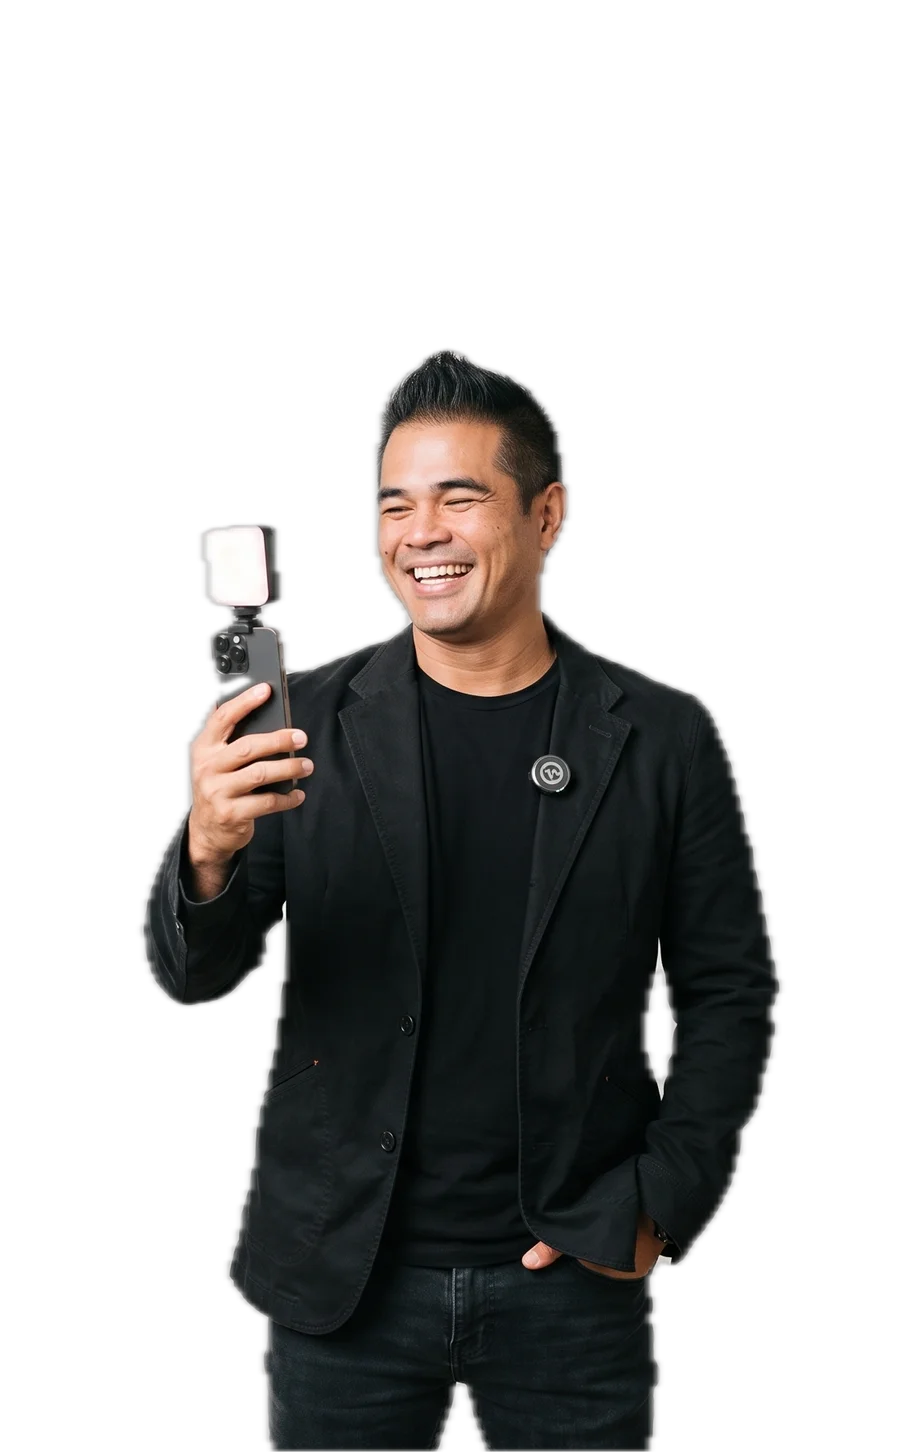
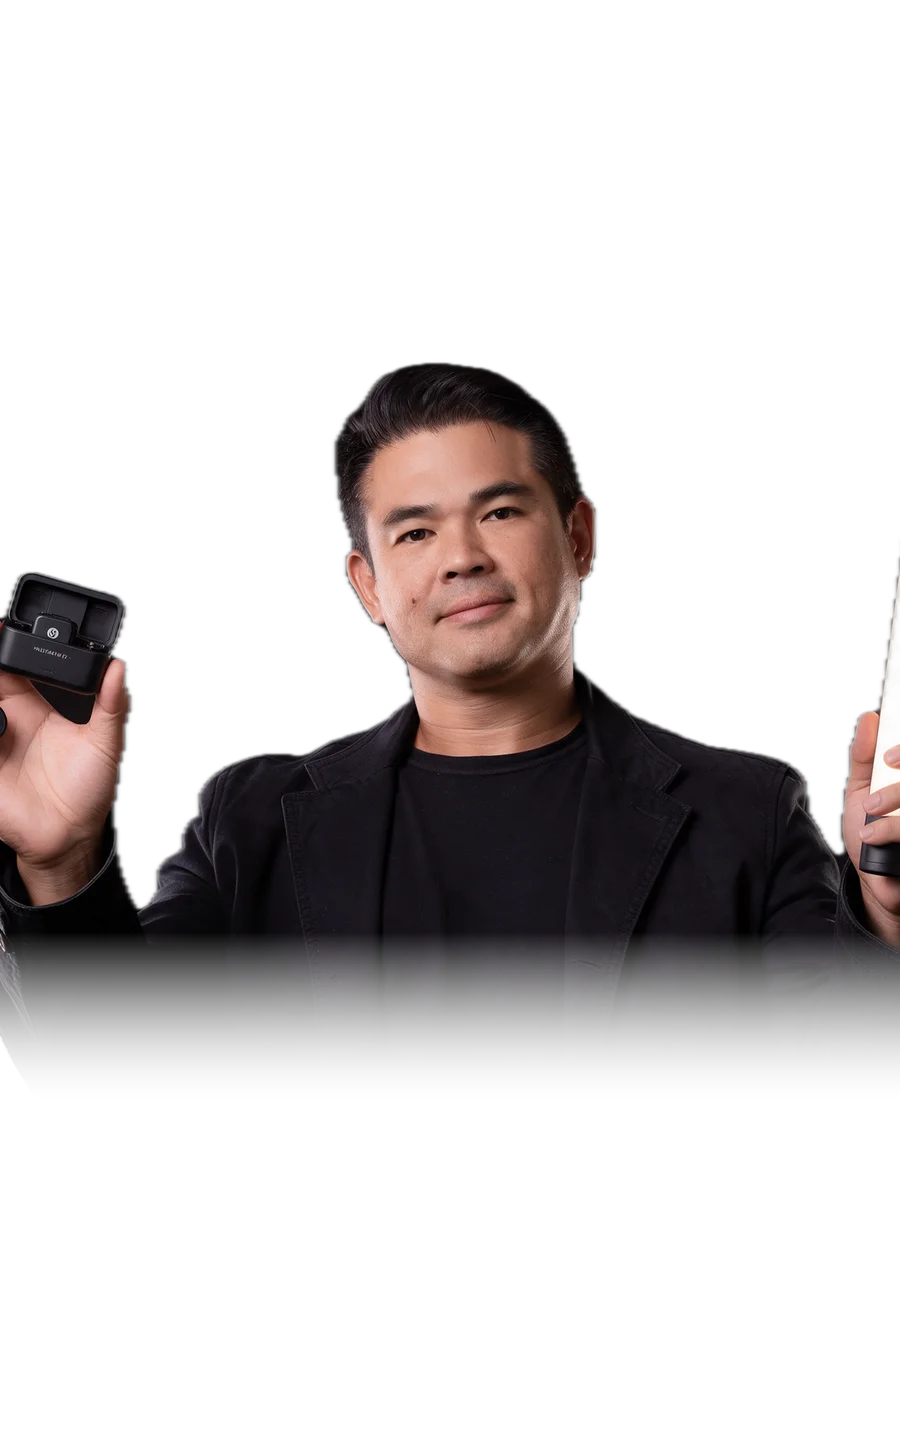
Equipamentos: hero escura com a foto do Magnific, bloco final 'Saber usar' no estilo da hero, rodapé escuro, barra fixa no celular, espaço do 'Ver no Mercado Livre'

diff --git a/equipamentos/index.html b/equipamentos/index.html
@@ -92,7 +92,7 @@
     }
     .topo.solido { background: var(--surface-0); border-bottom-color: rgba(255,255,255,0.06); }
     /* em cima da hero clara, o logo fica escuro */
-    .topo:not(.solido) .marca, .topo:not(.solido) .marca svg { color: #0A0A0A; }
+    .topo:not(.solido) .marca, .topo:not(.solido) .marca svg { color: var(--cream); }
     .topo .wrap { height: 56px; display: flex; align-items: center; justify-content: space-between; gap: 16px; }
     .marca {
       display: flex; align-items: center; gap: 8px;
@@ -118,12 +118,12 @@
       margin-top: -56px; min-height: 100svh;
       display: flex; flex-direction: column; justify-content: space-between;
       padding: 72px 0 28px;
-      background: #DEDAD5 url("/assets/equipamentos/hero-claro-mobile.webp") center bottom 105px / cover no-repeat;
+      background: #0A0A0A url("/assets/equipamentos/hero-claro-mobile.webp") center bottom 105px / cover no-repeat;
     }
     .abre::after {
       content: ""; position: absolute; inset: 0; pointer-events: none;
       background:
-        linear-gradient(to top, rgba(226,223,218,0.96) 0%, rgba(226,223,218,0.85) 24%, rgba(226,223,218,0) 46%);
+        linear-gradient(to top, rgba(10,10,10,0.96) 0%, rgba(10,10,10,0.85) 24%, rgba(10,10,10,0) 46%);
     }
     .abre > * { position: relative; z-index: 3; }
     /* Efeito "palavra atrás dele": o recorte do Márcio (Vision do macOS, 30/09)
@@ -139,15 +139,15 @@
       font-family: 'Archivo Expandida', 'Inter', sans-serif; font-weight: 900;
       /* a palavra mede 10,66x o tamanho da fonte: ocupa a largura útil exata */
       font-size: calc((100vw - 40px) / 10.8); line-height: 0.9; letter-spacing: -0.01em;
-      text-transform: uppercase; text-align: center; color: #0A0A0A;
+      text-transform: uppercase; text-align: center; color: var(--cream);
       white-space: nowrap;
     }
     .hero-menu {
       display: none; justify-content: flex-end; gap: 22px;
       max-width: 1440px; margin: 14px auto 0; padding: 0 20px; width: 100%;
     }
-    .hero-menu a { color: #0A0A0A; text-decoration: none; font-size: 18px; letter-spacing: -0.01em; }
-    .hero-menu a:hover { color: #000; text-decoration: underline; text-underline-offset: 4px; }
+    .hero-menu a { color: #E9E4DA; text-decoration: none; font-size: 18px; letter-spacing: -0.01em; }
+    .hero-menu a:hover { color: #fff; text-decoration: underline; text-underline-offset: 4px; }
     .hero-base {
       display: flex; flex-direction: column; gap: 22px;
       max-width: 1440px; margin: 0 auto; padding: 0 20px; width: 100%;
@@ -162,18 +162,18 @@
        quebram dentro dela (contain: inline-size) e com linhas equilibradas */
     .hero-texto { width: fit-content; }
     .hero-texto > p:not(.lista-titulo) { contain: inline-size; text-wrap: balance; }
-    .hero-apoio { margin: 0; max-width: none; font-size: 17px; line-height: 1.45; color: #0A0A0A; }
-    .hero-afiliado { margin: 10px 0 0; max-width: none; font-size: 12.5px; line-height: 1.45; color: #5A534A; }
+    .hero-apoio { margin: 0; max-width: none; font-size: 17px; line-height: 1.45; color: #E2DCD0; }
+    .hero-afiliado { margin: 10px 0 0; max-width: none; font-size: 12.5px; line-height: 1.45; color: #A9A296; }
     .btn-vazado {
       display: inline-flex; align-items: center; justify-content: center; gap: 14px;
-      padding: 18px 30px; border: 1.5px solid #0A0A0A;
-      color: #0A0A0A; text-decoration: none; font-size: 18px; font-weight: 400; letter-spacing: -0.01em;
+      padding: 18px 30px; border: 1.5px solid var(--cream);
+      color: var(--cream); text-decoration: none; font-size: 18px; font-weight: 400; letter-spacing: -0.01em;
       transition: background .2s, color .2s;
     }
     .btn-vazado svg { width: 24px; height: 24px; }
     /* indicador de rolagem no centro, embaixo (o "tracinho" da referência) */
     .rolar { display: none; }
-    .btn-vazado:hover { background: #0A0A0A; color: var(--cream); }
+    .btn-vazado:hover { background: var(--cream); color: #0A0A0A; }
 
     /* Abas por categoria: grudam embaixo do cabeçalho */
     .abas {
@@ -220,15 +220,6 @@
     .info p { margin: 0; font-size: 15px; color: #CFC8BB; flex: 1; }
     .info .btn-ember { align-self: flex-start; margin-top: 8px; padding: 11px 18px; font-size: 13px; }
 
-    /* Fecho */
-    .fecho { padding: 56px 0 64px; }
-    .fecho .caixa {
-      background: var(--cream); color: var(--cream-ink);
-      border-radius: var(--r-md); padding: 32px 24px;
-    }
-    .fecho h2 { margin: 0 0 10px; font-size: clamp(22px, 4vw, 30px); font-weight: 800; letter-spacing: -0.02em; }
-    .fecho p { margin: 0 0 20px; font-size: 16px; max-width: 58ch; color: #3A3129; }
-
     footer { padding: 36px 0; border-top: 1px solid rgba(255,255,255,0.05); }
     footer .wrap {
       display: flex; flex-direction: column; align-items: center; gap: 8px; text-align: center;
@@ -248,7 +239,7 @@
         background-image: url("/assets/equipamentos/hero-claro.webp");
         /* largura 115% e topo puxado proporcional à tela: a palavra também
            escala pela largura, então a cabeça sempre encosta nela */
-        background-size: 115% auto; background-position: center calc(23px - 23vw);
+        background-size: min(115%, 1840px) auto; background-position: center calc(23px - min(23vw, 368px));
       }
       /* na hero a palavra É a marca: a barra do topo só aparece depois de rolar */
       .topo:not(.solido) { opacity: 0; transform: translateY(-100%); pointer-events: none; }
@@ -258,20 +249,21 @@
       }
       .rolar {
         display: block; position: absolute; left: 50%; bottom: 14px; z-index: 3;
-        width: 46px; height: 6px; margin-left: -23px; border-radius: 3px; background: rgba(10,10,10,0.7);
+        width: 46px; height: 6px; margin-left: -23px; border-radius: 3px; background: rgba(240,230,210,0.6);
       }
-      .gigante { padding: 0 40px; font-size: min(calc((100vw - 80px) / 10.8), 190px); }
-      .hero-menu, .hero-base { padding: 0 40px; }
+      .gigante { padding: 0 40px; font-size: min(calc((100vw - 80px) / 10.8), 141px); }
+      /* acima de 1600 px a hero para de crescer (fundo preto liso dos lados) */
+      .hero-menu, .hero-base { padding: 0 40px; max-width: 1600px; }
       .hero-base { flex-direction: row; align-items: flex-end; justify-content: space-between; }
       .btn-vazado { flex-shrink: 0; }
-      .hero-menu { display: flex; }
-      .abre > .recorte { background-image: url("/assets/equipamentos/hero-claro-recorte.webp"); background-size: 115% auto; background-position: center calc(23px - 23vw); }
+      /* menu à esquerda, embaixo da palavra: o lado direito tem o bastão de luz */
+      .hero-menu { display: flex; justify-content: flex-start; }
+      .abre > .recorte { background-image: url("/assets/equipamentos/hero-claro-recorte.webp"); background-size: min(115%, 1840px) auto; background-position: center calc(23px - min(23vw, 368px)); }
       /* no desktop o texto fica ao lado dele: sem degradê, corpo inteiro visível */
       .abre::after { background: none; }
       /* ele ocupa o meio da tela: o texto fica numa coluna estreita à esquerda */
       .lista-titulo { font-size: min(2.6vw, 46px); margin-bottom: 12px; }
       .hero-afiliado { font-size: 12px; }
-      .fecho .caixa { padding: 44px 40px; }
       .foto { aspect-ratio: 1 / 1; }
     }
     @media (prefers-reduced-motion: reduce) { html { scroll-behavior: auto; } }
@@ -308,7 +300,7 @@
     @media (min-width: 640px) {
       .grade { gap: 48px 24px; grid-template-columns: repeat(auto-fill, minmax(280px, 1fr)); }
       /* lista com as mesmas margens da hero (1440 / 40px) */
-      .abas .wrap, .cat .wrap, .fecho .wrap, footer .wrap { max-width: 1440px; padding-left: 40px; padding-right: 40px; }
+      .abas .wrap, .cat .wrap, footer .wrap { max-width: 1440px; padding-left: 40px; padding-right: 40px; }
     }
 
     /* card sem caixa: foto num quadro cinza-claro e texto embaixo */
@@ -352,13 +344,6 @@
     .link-ml:hover { gap: 14px; }
     .link-ml:focus-visible { outline: 2px solid #0A0A0A; outline-offset: 4px; }
 
-    .fecho { padding: 72px 0 80px; }
-    .fecho .caixa { background: #0A0A0A; color: #F0E6D2; border-radius: 0; }
-    .fecho h2 { font-family: 'Archivo Expandida', 'Inter', sans-serif; font-weight: 900; text-transform: uppercase; letter-spacing: -0.01em; color: #F0E6D2; }
-    .fecho p { color: #CFC8BB; }
-    footer { border-top-color: rgba(10,10,10,0.1); }
-    footer .wrap, footer a, footer span { color: #5A534A; }
-    footer a:hover { color: #0A0A0A; }
 
     /* Some ao rolar pra baixo, volta ao rolar pra cima (30/09). As abas de
        categoria sobem junto pra não deixar um vão no lugar da barra. */
@@ -367,47 +352,6 @@
     .abas { transition: top .45s cubic-bezier(.22, 1, .36, 1); }
     html.sem-topo .abas { top: 0; }
 
-    /* Bloco final (30/09): texto à esquerda, foto real do Márcio no estúdio à
-       direita, botão vazado claro no mesmo desenho do "Ver a lista" */
-    .fecho .caixa { display: grid; grid-template-columns: minmax(0, 1fr); padding: 0; overflow: hidden; }
-    .fecho-texto { padding: 36px 24px 40px; display: flex; flex-direction: column; align-items: flex-start; }
-    .fecho-kicker { margin: 0 0 16px; font-size: 13px; letter-spacing: 0.08em; text-transform: uppercase; color: #A9A296; }
-    .fecho h2 { margin: 0 0 16px; font-size: clamp(28px, 4.4vw, 60px); line-height: 0.98; text-wrap: balance; max-width: 12ch; }
-    .fecho .fecho-texto > p:not(.fecho-kicker) { margin: 0 0 28px; font-size: 17px; line-height: 1.55; max-width: 40ch; color: #CFC8BB; text-wrap: pretty; }
-    .btn-claro { border-color: #F0E6D2; color: #F0E6D2; }
-    .btn-claro:hover { background: #F0E6D2; color: #0A0A0A; }
-    .fecho-foto { order: -1; aspect-ratio: 4 / 3; }
-    .fecho-foto img { width: 100%; height: 100%; object-fit: cover; object-position: 74% 30%; display: block; }
-    @media (min-width: 900px) {
-      .fecho .caixa { grid-template-columns: 1.05fr 0.95fr; min-height: 520px; }
-      .fecho-texto { padding: 64px 56px; justify-content: center; }
-      .fecho-foto { order: 0; aspect-ratio: auto; }
-    }
-
-    /* Refino do bloco final (30/09) */
-    .fecho-kicker { display: flex; align-items: center; gap: 10px; }
-    .fecho-kicker .ponto { width: 8px; height: 8px; background: var(--zhu); flex-shrink: 0; }
-    .fecho h2 em { font-style: normal; color: var(--zhu); }
-    .fecho-fatos {
-      list-style: none; margin: 0 0 32px; padding: 0; width: 100%; max-width: 460px;
-      display: grid; grid-template-columns: repeat(3, 1fr);
-      border-top: 1px solid rgba(240,230,210,0.18);
-    }
-    .fecho-fatos li { padding: 14px 12px 0 0; display: flex; flex-direction: column; gap: 2px; }
-    .fecho-fatos li + li { padding-left: 14px; border-left: 1px solid rgba(240,230,210,0.18); }
-    .fecho-fatos strong { font-family: 'Archivo Expandida', 'Inter', sans-serif; font-weight: 800; font-size: 18px; color: #F0E6D2; text-transform: uppercase; letter-spacing: -0.01em; }
-    .fecho-fatos span { font-size: 13px; color: #A9A296; }
-    .fecho-fatos strong { white-space: nowrap; }
-    @media (max-width: 639px) { .fecho-fatos strong { font-size: min(14px, 3.8vw); } .fecho-fatos span { font-size: 12px; } .fecho-fatos li + li { padding-left: 10px; } }
-    /* foto entra no preto sem corte seco */
-    .fecho-foto { position: relative; }
-    .fecho-foto::after { content: ""; position: absolute; inset: 0; pointer-events: none;
-      background: linear-gradient(to top, #0A0A0A 0%, rgba(10,10,10,0) 30%); }
-    @media (min-width: 900px) {
-      .fecho-foto::after { background: linear-gradient(to right, #0A0A0A 0%, rgba(10,10,10,0) 22%); }
-      .fecho .caixa { min-height: 580px; }
-    }
-
     /* Responsividade (01/10) */
     /* tablet em pé: usa a foto vertical do celular, que preenche a altura */
     @media (min-width: 640px) and (max-aspect-ratio: 1/1) {
@@ -415,7 +359,7 @@
          topo da foto) encosta embaixo da palavra */
       .abre { background-image: url("/assets/equipamentos/hero-claro-mobile.webp"); background-size: 100% auto; background-position: center calc(150px - 46.7vw); }
       .abre > .recorte { background-image: url("/assets/equipamentos/hero-claro-recorte-mobile.webp"); background-size: 100% auto; background-position: center calc(150px - 46.7vw); }
-      .abre::after { background: linear-gradient(to top, rgba(226,223,218,0.96) 0%, rgba(226,223,218,0.85) 22%, rgba(226,223,218,0) 42%); }
+      .abre::after { background: linear-gradient(to top, rgba(10,10,10,0.96) 0%, rgba(10,10,10,0.85) 22%, rgba(10,10,10,0) 42%); }
       .hero-menu { display: none; }
     }
     /* celular estreito: logo e botão do topo cabem numa linha */
@@ -429,10 +373,45 @@
     /* rodapé: os dois links lado a lado */
     .rodape-links { display: flex; justify-content: center; align-items: center; gap: 12px; white-space: nowrap; }
     @media (max-width: 639px) { .rodape-links { font-size: min(10px, 2.75vw); letter-spacing: 0.05em; gap: 8px; } }
-    /* botão do bloco final: largura toda no celular; no computador, a mesma
-       largura da linha dos três fatos (max 460px) */
-    .fecho .btn-claro { width: 100%; justify-content: space-between; }
-    @media (min-width: 900px) { .fecho .btn-claro { max-width: 460px; } }
+
+    /* Bloco final (02/10): espelha a hero. Faixa preta de ponta a ponta, palavra
+       gigante "SABER USAR" atrás do Márcio (retrato de estúdio recortado pelo
+       Vision), texto embaixo à esquerda e botão vazado à direita.
+       --f = tamanho da palavra ("SABER USAR" mede 8,53x a fonte);
+       --h = altura da foto; a cabeça fica a 7,6% do topo da foto. */
+    .fecho {
+      --f: calc((100vw - 40px) / 8.7); --h: 560px; --pt: 48px;
+      position: relative; overflow: hidden; margin-top: 72px;
+      background: #0A0A0A; color: var(--cream);
+      min-height: calc(var(--pt) + var(--h) * 0.92 + 200px);
+      display: flex; flex-direction: column; justify-content: space-between;
+      padding: var(--pt) 0 28px;
+    }
+    .fecho-gigante { position: relative; z-index: 1; margin: 0; font-size: var(--f) !important; }
+    .fecho-foto, .fecho-recorte {
+      position: absolute; left: 50%; transform: translateX(-50%);
+      top: calc(var(--pt) + var(--f) * 0.72 - var(--h) * 0.076);
+      height: var(--h); width: auto; max-width: none; pointer-events: none;
+    }
+    .fecho-foto { z-index: 0; }
+    .fecho-recorte { z-index: 2; }
+    .fecho-base { position: relative; z-index: 3; }
+    .fecho .lista-titulo { font-size: min(calc((100vw - 40px) / 14.6), 64px); }
+    .fecho .hero-apoio { color: #E2DCD0; }
+    .fecho .hero-afiliado { color: #A9A296; font-size: 13px; }
+    .fecho::after {
+      content: ""; position: absolute; inset: 0; z-index: 2; pointer-events: none;
+      background: linear-gradient(to top, #0A0A0A 0%, rgba(10,10,10,0.92) 30%, rgba(10,10,10,0) 48%);
+    }
+    @media (min-width: 640px) {
+      .fecho { --f: min(calc((100vw - 80px) / 8.7), 175px); --h: min(86vh, 820px); min-height: min(100vh, 920px); }
+      .fecho .lista-titulo { font-size: min(2.6vw, 46px); }
+      .fecho::after { background: linear-gradient(to top, rgba(10,10,10,0.92) 0%, rgba(10,10,10,0) 28%); }
+    }
+    /* rodapé escuro, continuando o bloco final */
+    footer { background: #0A0A0A; border-top: 1px solid rgba(255,255,255,0.06); }
+    footer .wrap, footer a, footer span { color: #8A847A; }
+    footer a:hover { color: var(--cream); }
   </style>
 </head>
 <body>
@@ -497,7 +476,7 @@
             <div class="info">
               <h3>Microfone Hollyland Lark M2 Combo</h3>
               <p>Sem fio, com som limpo e estojo.</p>
-              <a class="link-ml" data-produto="Hollyland Lark M2" href="https://meli.la/1ZxfPdG" target="_blank" rel="noopener nofollow sponsored"><span class="so-desk">Ver no </span>Mercado Livre<svg aria-hidden="true"><use href="#i-seta"></use></svg></a>
+              <a class="link-ml" data-produto="Hollyland Lark M2" href="https://meli.la/1ZxfPdG" target="_blank" rel="noopener nofollow sponsored"><span><span class="so-desk">Ver no </span>Mercado Livre</span><svg aria-hidden="true"><use href="#i-seta"></use></svg></a>
             </div>
           </article>
           <article class="card">
@@ -505,7 +484,7 @@
             <div class="info">
               <h3>Microfone Hollyland Lark A1</h3>
               <p>Som parecido, metade do preço.</p>
-              <a class="link-ml" data-produto="Hollyland Lark A1" href="https://meli.la/1ZxfPdG" target="_blank" rel="noopener nofollow sponsored"><span class="so-desk">Ver no </span>Mercado Livre<svg aria-hidden="true"><use href="#i-seta"></use></svg></a>
+              <a class="link-ml" data-produto="Hollyland Lark A1" href="https://meli.la/1ZxfPdG" target="_blank" rel="noopener nofollow sponsored"><span><span class="so-desk">Ver no </span>Mercado Livre</span><svg aria-hidden="true"><use href="#i-seta"></use></svg></a>
             </div>
           </article>
           <article class="card">
@@ -513,7 +492,7 @@
             <div class="info">
               <h3>Microfone de lapela sem fio Kaidi</h3>
               <p>O baratinho que resolve.</p>
-              <a class="link-ml" data-produto="Lapela Kaidi" href="https://meli.la/1ZxfPdG" target="_blank" rel="noopener nofollow sponsored"><span class="so-desk">Ver no </span>Mercado Livre<svg aria-hidden="true"><use href="#i-seta"></use></svg></a>
+              <a class="link-ml" data-produto="Lapela Kaidi" href="https://meli.la/1ZxfPdG" target="_blank" rel="noopener nofollow sponsored"><span><span class="so-desk">Ver no </span>Mercado Livre</span><svg aria-hidden="true"><use href="#i-seta"></use></svg></a>
             </div>
           </article>
         </div>
@@ -530,7 +509,7 @@
             <div class="info">
               <h3>Luz de LED 5W de prender no celular</h3>
               <p>A mais barata pra começar.</p>
-              <a class="link-ml" data-produto="Luz LED 5W" href="https://meli.la/1ZxfPdG" target="_blank" rel="noopener nofollow sponsored"><span class="so-desk">Ver no </span>Mercado Livre<svg aria-hidden="true"><use href="#i-seta"></use></svg></a>
+              <a class="link-ml" data-produto="Luz LED 5W" href="https://meli.la/1ZxfPdG" target="_blank" rel="noopener nofollow sponsored"><span><span class="so-desk">Ver no </span>Mercado Livre</span><svg aria-hidden="true"><use href="#i-seta"></use></svg></a>
             </div>
           </article>
           <article class="card">
@@ -538,7 +517,7 @@
             <div class="info">
               <h3>Bastão de LED RGB Sokani X25</h3>
               <p>Muda de cor e temperatura.</p>
-              <a class="link-ml" data-produto="Sokani X25" href="https://meli.la/1ZxfPdG" target="_blank" rel="noopener nofollow sponsored"><span class="so-desk">Ver no </span>Mercado Livre<svg aria-hidden="true"><use href="#i-seta"></use></svg></a>
+              <a class="link-ml" data-produto="Sokani X25" href="https://meli.la/1ZxfPdG" target="_blank" rel="noopener nofollow sponsored"><span><span class="so-desk">Ver no </span>Mercado Livre</span><svg aria-hidden="true"><use href="#i-seta"></use></svg></a>
             </div>
           </article>
         </div>
@@ -555,31 +534,24 @@
             <div class="info">
               <h3>Tripé magnético Ulanzi TT88</h3>
               <p>Selfie e gravação de cima.</p>
-              <a class="link-ml" data-produto="Ulanzi TT88" href="https://meli.la/1ZxfPdG" target="_blank" rel="noopener nofollow sponsored"><span class="so-desk">Ver no </span>Mercado Livre<svg aria-hidden="true"><use href="#i-seta"></use></svg></a>
+              <a class="link-ml" data-produto="Ulanzi TT88" href="https://meli.la/1ZxfPdG" target="_blank" rel="noopener nofollow sponsored"><span><span class="so-desk">Ver no </span>Mercado Livre</span><svg aria-hidden="true"><use href="#i-seta"></use></svg></a>
             </div>
           </article>
         </div>
       </div>
     </section>
 
-    <section class="fecho">
-      <div class="wrap">
-        <div class="caixa">
-          <div class="fecho-texto">
-            <p class="fecho-kicker"><span class="ponto" aria-hidden="true"></span>O curso do Márcio</p>
-            <h2>Equipamento ajuda.<br><em>Saber usar é o que&nbsp;muda.</em></h2>
-            <p>O Márcio ensina, do zero, a tirar foto e vídeo com cara de profissional usando o celular que você já&nbsp;tem.</p>
-            <ul class="fecho-fatos">
-              <li><strong>Do zero</strong><span>no seu ritmo</span></li>
-              <li><strong>PDF</strong><span>em cada módulo</span></li>
-              <li><strong>7 dias</strong><span>de garantia</span></li>
-            </ul>
-            <a class="btn-vazado btn-claro" href="/">Conhecer o curso<svg aria-hidden="true"><use href="#i-seta"></use></svg></a>
-          </div>
-          <div class="fecho-foto">
-            <img src="/assets/equipamentos/fecho-marcio-estudio.webp" alt="Márcio Ishizuka no estúdio dele, gravando com o celular" width="1000" height="985" loading="lazy">
-          </div>
+    <section class="fecho" aria-labelledby="t-fecho">
+      <img class="fecho-foto" src="/assets/equipamentos/fecho-marcio.webp" alt="" width="1066" height="1600" loading="lazy">
+      <h2 class="gigante fecho-gigante" id="t-fecho"><span aria-hidden="true">Saber usar</span><span class="sr">Equipamento ajuda. Saber usar é o que muda.</span></h2>
+      <img class="fecho-recorte" src="/assets/equipamentos/fecho-marcio-recorte.webp" alt="Márcio Ishizuka" width="1066" height="1600" loading="lazy">
+      <div class="hero-base fecho-base">
+        <div class="hero-texto">
+          <p class="lista-titulo">O curso do Márcio</p>
+          <p class="hero-apoio">Equipamento ajuda, mas é saber usar que muda. O Márcio ensina, do zero, a tirar foto e vídeo com cara de profissional usando o celular que você já&nbsp;tem.</p>
+          <p class="hero-afiliado fecho-fatos">Do zero, no seu ritmo · PDF em cada módulo · 7 dias de&nbsp;garantia</p>
         </div>
+        <a class="btn-vazado" href="/">Conhecer o curso<svg aria-hidden="true"><use href="#i-seta"></use></svg></a>
       </div>
     </section>
   </main>
@@ -619,7 +591,9 @@
         var y = window.scrollY, passou = y > hero.offsetHeight * 0.35;
         topo.classList.toggle('solido', passou);
         // depois da hero: desce = esconde, sobe = mostra (folga de 6 px contra tremida)
-        if (!passou) { topo.classList.remove('escondido'); }
+        // celular (até 639 px): a barra fica sempre visível (público 45+ se perde
+        // quando o menu some); só no computador ela some ao descer
+        if (!passou || window.innerWidth < 640) { topo.classList.remove('escondido'); }
         else if (y - ultimoY > 6) { topo.classList.add('escondido'); }
         else if (ultimoY - y > 6) { topo.classList.remove('escondido'); }
         if (Math.abs(y - ultimoY) > 6 || !passou) ultimoY = y;
